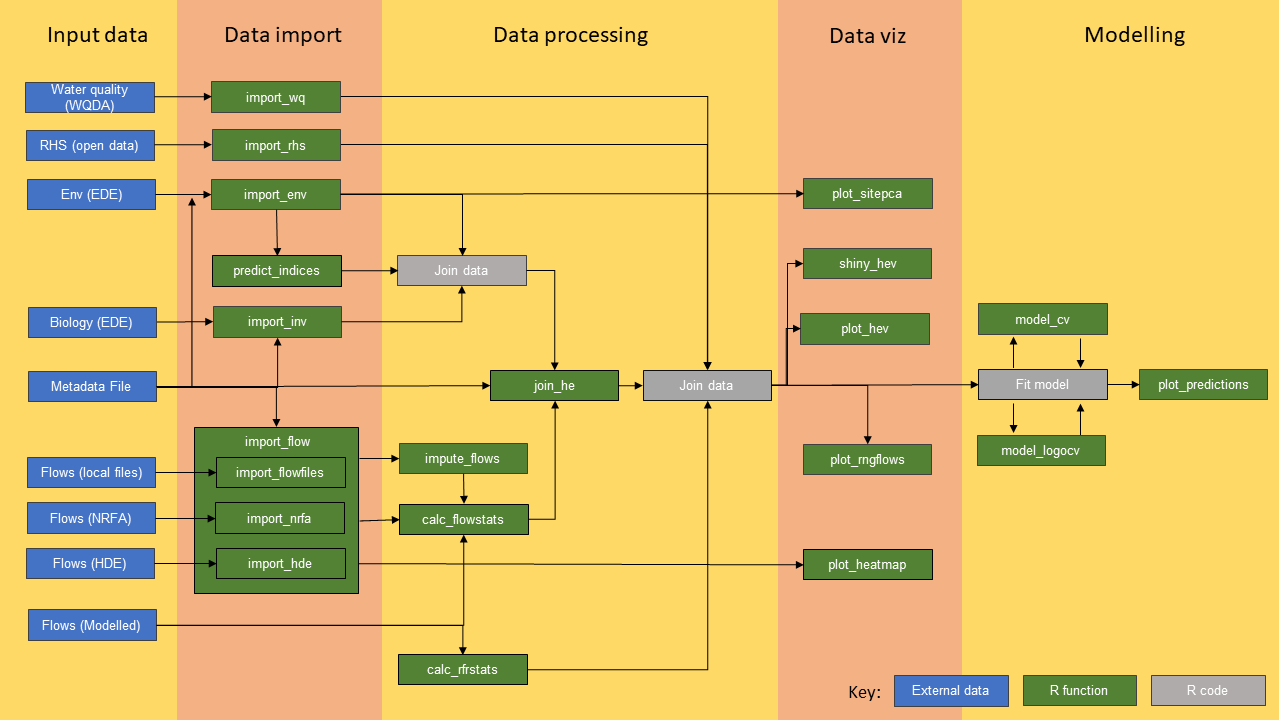
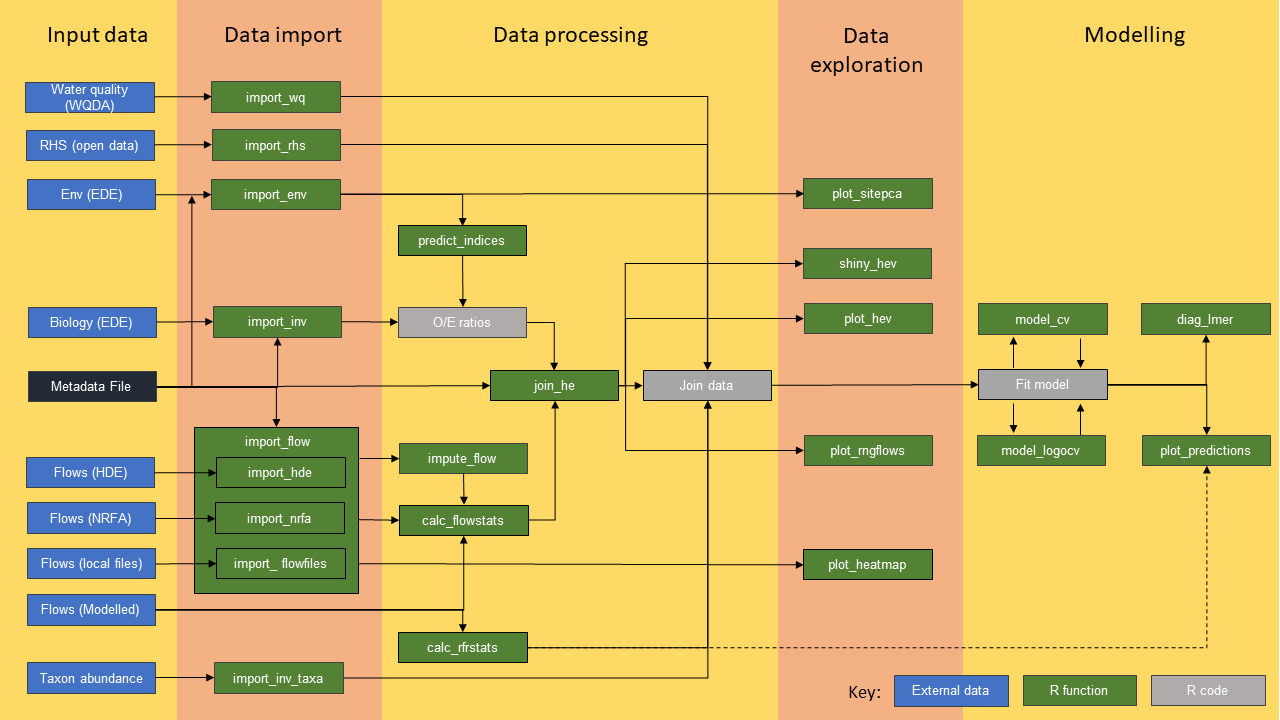
IG 08/12/2023 rename import_taxa to import_inv_taxa

diff --git a/README.md b/README.md
@@ -30,8 +30,8 @@ These are:
     EA’s Open Data portal;
 -   `import_wq` for importing water quality data from the EA Water
     Quality Archive database;
--   `import_taxa` for importing taxonomic abundances from the EA Ecology
-    and Fish Data Explorer;
+-   `import_inv_taxa` for importing taxonomic abundances from the EA
+    Ecology and Fish Data Explorer;
 -   `predict_indices` for calculating expected scores for
     macroinvertebrate indices using the RICT2 model (FBA 2020);
 -   `calc_flowstats` and `calc_rfrstats` for calculating summary
@@ -158,7 +158,7 @@ Minor update to predict_indices.</td>
 <tr class="odd">
 <td>2.1.2</td>
 <td>Jan-2024</td>
-<td>Added new function import_taxa.<br />
+<td>Added new function import_inv_taxa.<br />
 Bug fix to import_rhs, minor update to import_wq.</td>
 </tr>
 </tbody>

diff --git a/docs/NEWS.md b/docs/NEWS.md
@@ -1,6 +1,20 @@
 
 <!-- NEWS.md is generated from NEWS.Rmd. Please edit that file -->
 
+# hetoolkit 2.1.2
+
+## Changes to Functions
+
+-   `import_rhs`: Updated to account for structural changes in the file
+    downloaded from data.gov.uk
+-   `import_wq`: Updated to allow determinand IDs (dets argument) to be
+    specified as 4-character strings as well as integers.
+
+## New Functions
+
+-   `import_inv_taxa`: for macroinvertebrate taxon abundance information
+    from the Environment Agency’s Ecology and Fish Data Explorer (EDE).
+
 # hetoolkit 2.1.1
 
 ## Changes to Functions

diff --git a/index.md b/index.md
@@ -115,7 +115,7 @@ Minor update to predict_indices.</td>
 <tr class="odd">
 <td>2.1.2</td>
 <td>Jan-2024</td>
-<td>Added new function import_taxa.<br />
+<td>Added new function import_inv_taxa.<br />
 Bug fix to import_rhs, minor update to import_wq.</td>
 </tr>
 </tbody>
